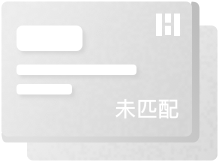
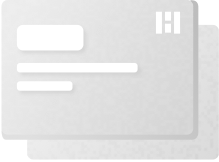
refactor 4 pages

diff --git a/app/container/main/portfolio/detail/page/description/index.js b/app/container/main/portfolio/detail/page/description/index.js
@@ -1,5 +1,4 @@
-import React, { Component } from 'react';
-import PropTypes from 'prop-types';
+import React, { PureComponent } from 'react';
 import { View, Text, Linking } from 'react-native';
 import ReadMore from 'react-native-read-more-text';
 import { Flex } from 'antd-mobile';
@@ -9,25 +8,26 @@ import { withState } from 'recompose';
 import styles from './style';
 
 @withState('textReady', 'setTextReady', false)
-export default class Description extends Component {
-  _renderTruncatedFooter = (handlePress) => {
+export default class Description extends PureComponent {
+  _renderTruncatedFooter = handlePress => {
     return (
       <Text style={styles.more} onPress={handlePress}>
-         [更多]
+        [更多]
       </Text>
     );
-  }
+  };
 
-  _renderRevealedFooter = (handlePress) => {
+  _renderRevealedFooter = handlePress => {
     return (
       <Text style={styles.more} onPress={handlePress}>
         [收起]
       </Text>
     );
-  }
+  };
   render() {
     const description = R.path(['portfolio', 'description'])(this.props);
-    const siteUrl = R.path(['portfolio', 'site_url'])(this.props) ||
+    const siteUrl =
+      R.path(['portfolio', 'site_url'])(this.props) ||
       R.path(['portfolio', 'coin', 'homepages', 0])(this.props);
     return (
       <View style={styles.container}>
@@ -39,50 +39,30 @@ export default class Description extends Component {
               renderTruncatedFooter={this._renderTruncatedFooter}
               renderRevealedFooter={this._renderRevealedFooter}
             >
-              <Text style={styles.desc}>
-                {description}
-              </Text>
+              <Text style={styles.desc}>{description}</Text>
             </ReadMore>
           </View>
         )}
         {!!siteUrl && (
           <View>
-            <Text style={[styles.title, styles.site]}>
-              官网
-            </Text>
-            <Text onClick={() => Linking.openUrl(siteUrl)}>
-              {siteUrl}
-            </Text>
+            <Text style={[styles.title, styles.site]}>官网</Text>
+            <Text onClick={() => Linking.openUrl(siteUrl)}>{siteUrl}</Text>
           </View>
         )}
         <View>
-          <Text style={[styles.title, styles.site]}>
-            评级信息
-          </Text>
+          <Text style={[styles.title, styles.site]}>评级信息</Text>
           <Flex style={styles.ratingTitle} justify="space-between">
-            <Text style={styles.ratingTitleText}>
-              机构
-            </Text>
-            <Text style={[styles.ratingTitleText, { width: 80 }]}>
-              评级
-            </Text>
+            <Text style={styles.ratingTitleText}>机构</Text>
+            <Text style={[styles.ratingTitleText, { width: 80 }]}>评级</Text>
           </Flex>
           <View>
             <Flex style={styles.ratingItem} justify="space-between">
-              <Text style={styles.ratingTitleText}>
-              TokenInsight
-              </Text>
-              <Text style={[styles.ratingItemText, { width: 80 }]}>
-              AAA+
-              </Text>
+              <Text style={styles.ratingTitleText}>TokenInsight</Text>
+              <Text style={[styles.ratingItemText, { width: 80 }]}>AAA+</Text>
             </Flex>
             <Flex style={styles.ratingItem} justify="space-between">
-              <Text style={styles.ratingTitleText}>
-                标准共识
-              </Text>
-              <Text style={[styles.ratingItemText, { width: 80 }]}>
-                AAA+
-              </Text>
+              <Text style={styles.ratingTitleText}>标准共识</Text>
+              <Text style={[styles.ratingItemText, { width: 80 }]}>AAA+</Text>
             </Flex>
           </View>
         </View>

diff --git a/app/container/main/portfolio/detail/page/trend/index.js b/app/container/main/portfolio/detail/page/trend/index.js
@@ -1,5 +1,5 @@
-import React, { Component } from 'react';
-import { View, ActivityIndicator, InteractionManager } from 'react-native';
+import React, { PureComponent } from 'react';
+import { View, ActivityIndicator } from 'react-native';
 import { connect } from 'react-redux';
 import R from 'ramda';
 import { NavigationActions } from 'react-navigation';
@@ -8,37 +8,8 @@ import NewsItem from './item';
 import Empty from '../empty';
 import styles from './style';
 
-@connect(({ loading, portfolio }) => ({
-  portfolio: R.pathOr({}, ['current'])(portfolio),
-  loadingTrend: loading.effects['portfolio/projectTrend'],
-}))
-export default class Trend extends Component {
-  componentWillMount() {
-    this.loadData();
-  }
-
-  componentWillReceiveProps(nextProps) {
-    const checkExist = R.pipe(
-      R.path(['portfolio', 'news', 'data']),
-      R.isNil,
-      R.not
-    );
-    if (!checkExist(this.props) && checkExist(nextProps)) {
-      InteractionManager.runAfterInteractions(() => {
-        this.loadData();
-      });
-    }
-  }
-
-
-  loadData = () => {
-    const { portfolio } = this.props;
-    this.props.dispatch({
-      type: 'portfolio/projectTrend',
-      id: R.path(['coin', 'id'])(portfolio),
-    });
-  };
-
+@connect()
+export default class Trend extends PureComponent {
   handleItemPress = id => () => {
     this.props.track('点击进入详情');
     this.props.dispatch(
@@ -52,29 +23,21 @@ export default class Trend extends Component {
   };
 
   render() {
-    const { portfolio, loadingTrend } = this.props;
+    const { portfolio, loading } = this.props;
     const trends = R.pathOr([], ['news', 'data'])(portfolio);
     const empty = R.isEmpty(trends);
 
-    if (loadingTrend) {
+    if (loading) {
       return <ActivityIndicator style={styles.indicator} />;
     }
     return (
       <View style={styles.container}>
         {empty ? (
-          <Empty
-            title="暂无动态"
-          />
+          <Empty title="暂无动态" />
         ) : (
           R.addIndex(R.map)((i, index) => (
-            <NewsItem
-              key={index}
-              data={i}
-              onPress={this.handleItemPress}
-            />
-))(
-            trends,
-          )
+            <NewsItem key={index} data={i} onPress={this.handleItemPress} />
+          ))(trends)
         )}
       </View>
     );

diff --git a/app/models/portfolio.js b/app/models/portfolio.js
@@ -240,7 +240,7 @@ export default {
         console.log(e);
       }
     },
-    *projectSymbol({ id, callback }, { call, put }) {
+    *projectSymbol({ payload: id, callback }, { call, put }) {
       try {
         const { data } = yield call(getProjectSymbol, id);
 
@@ -286,13 +286,25 @@ export default {
      */
     *get({ payload }, { put, call }) {
       try {
-        const res = yield call(projectDetail, {
+        const { data } = yield call(projectDetail, {
           id: payload,
         });
 
         yield put({
           type: 'saveDetail',
-          payload: res.data,
+          payload: data,
+        });
+
+        yield put.resolve({
+          type: 'getSupplement',
+          payload,
+          coinId: R.path(['coin', 'id'])(data),
+        });
+
+        // get stats
+        yield put({
+          type: 'projectStat',
+          payload,
         });
 
         // get extra
@@ -304,9 +316,31 @@ export default {
         console.log(e);
       }
     },
-    *getExtra({ payload, callback }, { all, put, call }) {
+    *getSupplement({ payload, coinId }, { all, put }) {
       try {
-        const result = yield all([
+        const sagas = [
+          ...(R.isNil(coinId)
+            ? []
+            : [
+                put.resolve({
+                  type: 'projectTrend',
+                  payload: coinId,
+                }),
+              ]),
+          put.resolve({
+            type: 'projectSymbol',
+            payload,
+          }),
+        ];
+
+        yield all(sagas);
+      } catch (error) {
+        console.log(error);
+      }
+    },
+    *getExtra({ payload }, { all, put }) {
+      try {
+        yield all([
           put({
             type: 'getInvest',
             payload,
@@ -319,15 +353,7 @@ export default {
             type: 'getExitToken',
             payload,
           }),
-          put({
-            type: 'projectStat',
-            payload,
-          }),
         ]);
-
-        if (callback) {
-          yield call(callback, result);
-        }
       } catch (error) {
         console.log(error);
       }

diff --git a/app/container/main/portfolio/detail/index.js b/app/container/main/portfolio/detail/index.js
@@ -61,7 +61,7 @@ const selectionList = [
     id: R.pathOr(0, ['id'])(item),
     loading: loading.effects['portfolio/get'],
     status: R.pathOr([], ['constants', 'project_status'])(global),
-    base_symbol: 'BTC',
+    base_symbol: R.pathOr('', ['current', 'stats', 'quote'])(portfolio),
     can_calculate: R.pathOr(false, ['can_calculate'])(item),
   };
 })
@@ -186,12 +186,14 @@ export default class PortfolioDetail extends Component {
               <Text
                 style={[
                   styles.switch.status.text,
-                  can_calculate && styles.switch.matched.highlight,
+                  styles.switch.matched.highlight,
                 ]}
               >
-                {can_calculate ? '项目已匹配' : '项目未匹配'}
+                {can_calculate ? '项目已匹配' : '立即匹配'}
               </Text>
-              <Text style={styles.switch.content.text}>切换</Text>
+              {can_calculate && (
+                <Text style={styles.switch.content.text}>切换</Text>
+              )}
             </View>
           </TouchableHighlight>
         </View>

diff --git a/app/container/main/portfolio/detail/page/pairs/index.js b/app/container/main/portfolio/detail/page/pairs/index.js
@@ -1,29 +1,12 @@
-import React, { Component } from 'react';
+import React, { PureComponent } from 'react';
 import { View, ActivityIndicator } from 'react-native';
-import { connect } from 'react-redux';
 import R from 'ramda';
 
 import PairItem from './item';
 import Empty from '../empty';
 import styles from './style';
 
-@connect(({ loading }) => ({
-  loading: loading.effects['portfolio/projectSymbol'],
-}))
-export default class Pairs extends Component {
-  componentWillMount() {
-    this.loadData();
-  }
-
-  loadData = () => {
-    const { id } = this.props;
-    this.props.dispatch({
-      type: 'portfolio/projectSymbol',
-      id,
-    });
-  };
-
-  render;
+export default class Pairs extends PureComponent {
   render() {
     const { portfolio, loading } = this.props;
     const symbols = R.pathOr([], ['symbols'])(portfolio);

diff --git a/app/container/main/portfolio/detail/page/return/index.js b/app/container/main/portfolio/detail/page/return/index.js
@@ -1,4 +1,4 @@
-import React, { Component } from 'react';
+import React, { PureComponent } from 'react';
 import { View, ActivityIndicator } from 'react-native';
 import { connect } from 'react-redux';
 import R from 'ramda';
@@ -13,7 +13,7 @@ import styles from './style';
 @connect(({ loading }) => ({
   loadingStat: loading.effects['portfolio/projectStat'],
 }))
-export default class Return extends Component {
+export default class Return extends PureComponent {
   render() {
     const { portfolio, loadingStat, can_calculate } = this.props;
     const investment = R.pathOr({}, ['stats', 'investment'])(portfolio);

diff --git a/app/utils/dva.js b/app/utils/dva.js
@@ -22,8 +22,6 @@ export default function (options) {
         'portfolio/get',
         'portfolio/search',
         'portfolio/searchMatchedCoin',
-        'portfolio/projectSymbol',
-        'portfolio/projectTrend',
         'user/createCompany',
         'resource/get',
         'resource/index',
